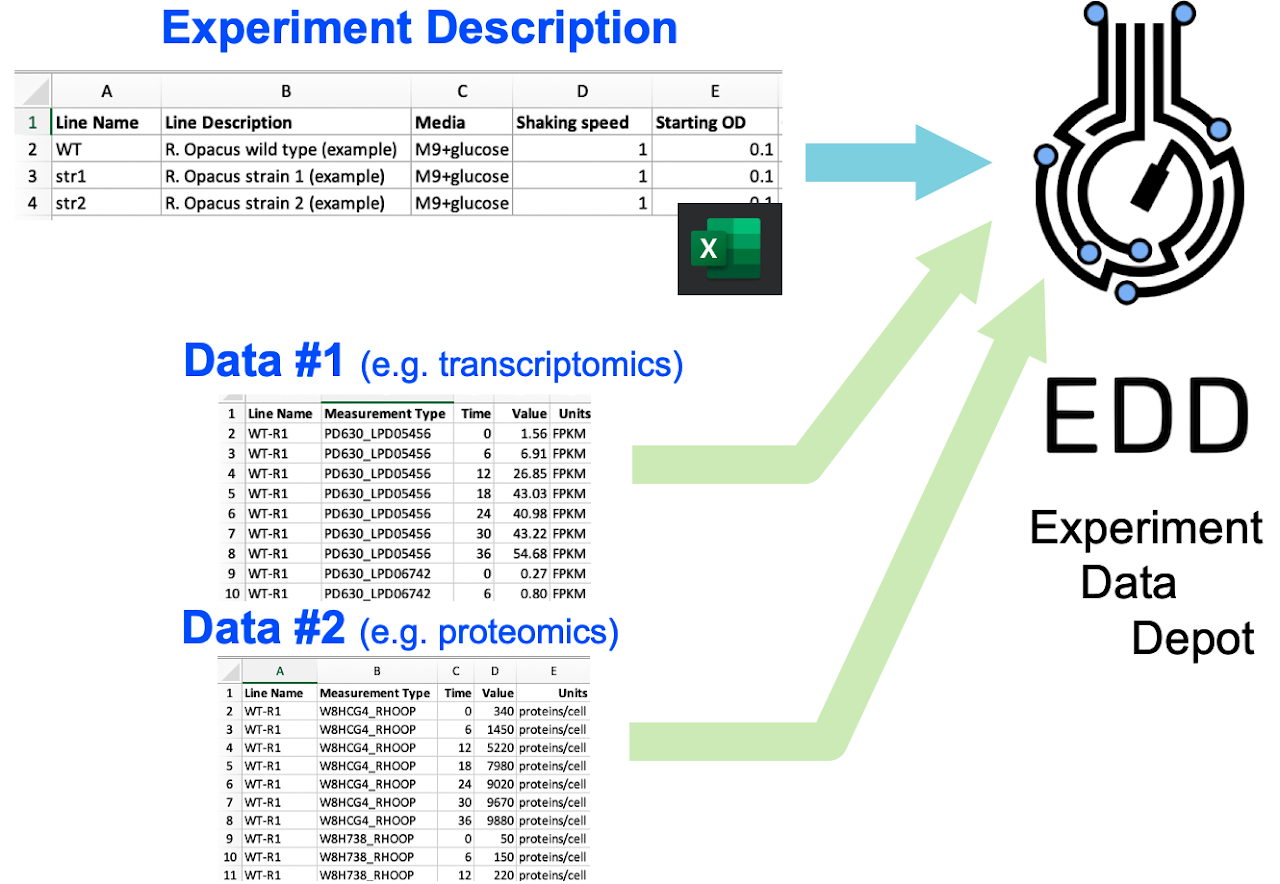
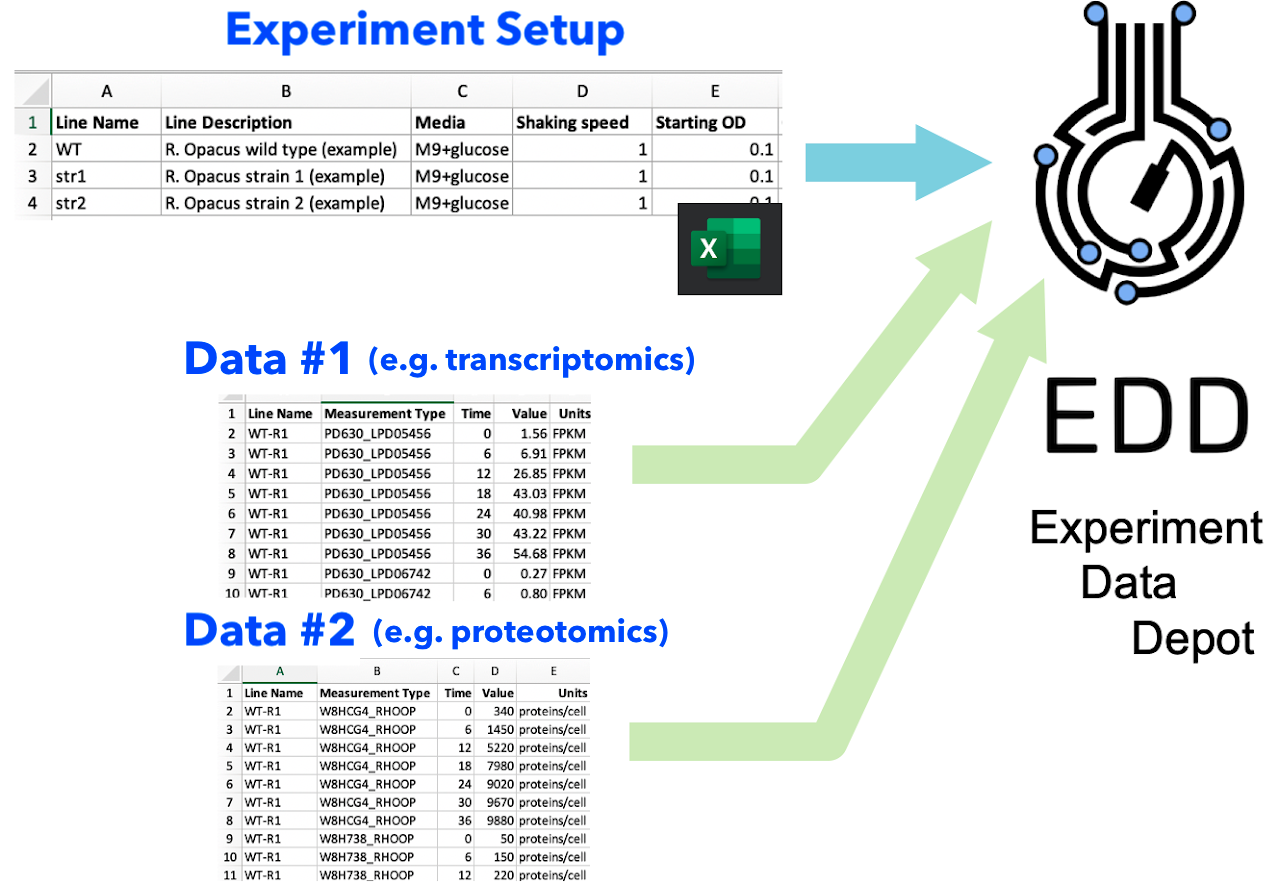
Replace FAQ entries for old Experiment Description
The new entry is for Experiment Setup, which recently replaced the Experiment
Description feature. The Experiment Setup files are more flexible versions of
the Experiment Description files, so example images of the files can remain.
Other images are updated for replacing "Experiment Description" text in the
image, or to use the newer, better-a11y, Bootstrap-5-based interface.

Update the dropzone area of the Study overview page to link to the FAQ entry
for the new Experiment Setup file.

Changed region(s): [[0.125, 0.0, 0.5312, 0.0611], [0.125, 0.6719, 0.5312, 0.7636], [0.125, 0.3665, 0.5625, 0.4276]]

diff --git a/server/templates/main/study-overview.html b/server/templates/main/study-overview.html
@@ -81,7 +81,13 @@
   {% csrf_token %}
   <div class="dz-message d-none" data-dz-message="">
     <p class="my-2">
-      {% translate "Drop file here to upload." %}
+      {% blocktranslate %}
+      To begin, drop an Experiment Setup file here, or click the button for
+      manual entry of Lines. <a
+        href="https://edd-docs.jbei.org/FAQ/#what-is-an-experiment-setup-file"
+        target="_new"
+      >What is an Experiment Setup file?</a>
+      {% endblocktranslate %}
     </p>
     <a
       class="btn btn-outline-secondary"

diff --git a/docs/FAQ.md b/docs/FAQ.md
@@ -4,9 +4,9 @@
 
 The Experiment Data Depot (EDD) **imports data in two steps**. (Fig. 1)
 
-1. **Experiment Description** input: this file describes your **experiment
-   design** so EDD knows how to store all your data, and how it is related to
-   your strains and samples (see below for more information).
+1. **Experiment Setup** input: this file describes your **experiment design**
+   so EDD knows how to store all your data, and how it is related to your
+   strains and samples.
 
 2. **Data input**: different types of data can be added in several successive
    steps. These data input steps are independent of each other, facilitating
@@ -19,69 +19,85 @@ and [data import][2].
   <img
     alt="Graphic showing spreadsheets with arrows pointing toward EDD logo"
     class="figure-img"
-    src="/img/faq_fig1.png"
+    src="img/faq_fig1.png"
     title="Fig 1"
   />
   <figcaption class="figure-caption">
     <strong>Fig. 1: Data input process.</strong>
-    Data is imported to EDD in two phases. In the first one, you import an
-    experiment description file, which describes the experiment to EDD so
-    it knows how to store your data. Afterwards, you can add as many data
-    types (e.g. transcriptomics, proteomics, …) as desired in each of the
-    data imports.
+    Data is imported to EDD in two phases. In the first, you import an
+    Experiment Setup file, describing the details of experiment conditions.
+    Afterwards, you can add as many data types--such as transcriptomics, or
+    proteomics--as desired in each of the data imports.
   </figcaption>
 </figure>
 
-## What is an experiment description?
+## What is an Experiment Setup file?
 
-An experiment description file is an **excel file that describes your
-experiment** (Fig. 2): which strains you are using (part ID from ICE), how they
-are being cultured (lines and metadata), which samples are being taken
-(assays) and how they are processed (protocol). Look at Fig. 3 to see how EDD
-organizes your experimental data (i.e. the ontology).
+An Experiment Setup file is a **table that describes your experiment**
+(Fig. 2): which strains you are using (part ID from ICE), how they are being
+cultured (lines and metadata), which samples are being taken (assays) and how
+they are processed (protocol). Look at Fig. 3 to see how EDD organizes your
+experimental data.
 
-The experiment description provides a single file standardized description of
-your experiment that is useful for, e.g., you to design your experiment, or
-the proteomics or metabolomics team to understand your experiment so they can
-plan how they will process your samples.
+The Experiment Setup file has a header row defining the layout of values in all
+the following rows. There is only one required column in the header, for "name"
+or "line name". The header can also have columns for:
+
+-   "description" or "line description", to fill in a Line's description field
+-   "part id" or "strain", to define identifiers or links to strains used
+-   "replicate" or "replicate count" to set the number of (biological) replicates
+    used for the Line definition
+-   any other column can be interpreted as _metadata_
+
+All other rows in the Experiment Setup file are used to map the columns into
+records to save into EDD. The upload process will attempt to match metadata
+columns to known metadata types in EDD, and add those metadata to the Line for
+that row in the file.
+
+If a metadata type cannot be matched to one in EDD automatically, a form will
+be shown giving you the option to select a known metadata type to use (e.g. if
+your column is "Temp.", EDD may not be able to automatically match to
+"Temperature", but you can select that from the search box), or choose an
+option to create a new metadata type in EDD if your account has permission to
+create new metadata types, or choose an option to ignore the column.
+
+If a piece of metadata is _Assay_ metadata, EDD will ask for the Protocol to
+use for that Assay. Every Assay is defined by a Line and a Protocol, so adding
+metadata to an Assay requires knowing the Protocol to use. The Experiment Setup
+process will then create an Assay and assign that metadata to it.
+
+Values in the "part id" or "strain" column will attempt to look up a matching
+entry in ICE. If a matching entry cannot be found, EDD will show a search box
+to map that value to a strain registry entry.
 
 <figure class="figure">
   <em>Input in Excel:</em>
   <img
-    alt="Screenshot of Excel with an Experiment Description file"
+    alt="Screenshot of Excel with an Experiment Setup file"
     class="figure-img"
-    src="/img/faq_fig2a.png"
+    src="img/faq_fig2a.png"
     title="Fig 2a"
   />
   <em>Import result in EDD:</em>
   <img
-    alt="Screenshot of EDD following addition of Experiment Description file"
+    alt="Screenshot of EDD following addition of Experiment Setup file"
     class="figure-img"
-    src="/img/faq_fig2b.png"
+    src="img/faq_fig2b.png"
     title="Fig 2b"
   />
   <figcaption class="figure-caption">
-    <strong>Fig. 2: Examples of experiment description.</strong>
-    The upper picture represents the example experiment description file in
-    Excel, with a line name that helps identify the culture, a line
-    description that gives more information on the line, the part ID in the
-    corresponding part repository (public ABF in this case), different types
-    of metadata (shaking speed, … growth temperature), the number of
-    replicates, and an optional field (in blue): assay information (i.e. a
-    protocol applied to a line at a given time point) for targeted proteomics.
-    The replicate count will create several lines for each replicate (3 for
-    wild type and 4 for the other strain, see below). The assay information is
-    optional: you may want to use this to tell the proteomics or metabolomics
-    services when you are sampling so they can add the data, or you can add
-    the data later yourself. The lower pictures shows how this information is
-    represented in EDD. Notice that the Part IDs have become links to the
-    corresponding registry.
+    <strong>Fig. 2: Examples of Experiment Setup.</strong>
+    The upper picture represents the example Experiment Setup file in Excel,
+    with a line name that helps identify the culture, a description that gives
+    more information on the line, the part ID in the corresponding part
+    repository (public ABF in this case), different types of metadata
+    (shaking speed, … growth temperature), and the number of replicates.
   </figcaption>
 </figure>
 
 ## What is a line?
 
-A **"Line" in EDD is** a distinct set of experimental conditions, (e.g. a
+A "Line" in EDD is a distinct set of experimental conditions, (e.g. a
 **single culture**). A Line generally corresponds to the contents of a
 shake flask or well plate, though it could also be, e.g., a tube containing an
 arabidopsis seed or an ionic liquid for a given pretreament. A line is not a
@@ -98,20 +114,19 @@ communication. You can find the [LBNL repository here][3].
   <img
     alt="Illustration of the different levels of EDD ontology"
     class="figure-img"
-    src="/img/faq_fig3.png"
+    src="img/faq_fig3.png"
     title="Fig 3"
   />
   <figcaption class="figure-caption">
     <strong>Fig. 3: EDD data organization (ontology).</strong>
-     In this example, we have three different strains (A,B, and C). Strain A is
-     cultured in two different flasks, giving rise to two lines (A1 and A2).
-     Strain B is cultured in a single flask, giving rise to a single line B1.
-     Strain C is cultured in three flasks, giving rise to three lines: C1, C2
-     and C3. Line A2 is assayed through HP-LC (protocol) at times t = 10 hr
-     (assay A2-HPLC-1) and t=8 hr (assay A2-HPLC-2). Assay A2-HPLC-1 produces
-     two measurements: 3 mg/L of Acetate and 2 mg/L of Lactate. Assay
-     A2-HPLC-2 produces two measurements: 2 mg/L of Acetate and 1.5 mg/L of
-     Lactate.
+    In this example, we have three different strains (A, B, and C). Strain A is
+    cultured in two different flasks, giving rise to two lines (A1 and A2).
+    Strain B is cultured in a single flask, giving rise to a single line B1.
+    Strain C is cultured in three flasks, giving rise to three lines: C1, C2
+    and C3. Line A2 is assayed through HP-LC (protocol) at times t = 10hr
+    (assay A2-HPLC-1) and t = 8hr (assay A2-HPLC-2). Assay A2-HPLC-1 produces
+    two measurements: 3 mg/L of Acetate and 2 mg/L of Lactate. Assay A2-HPLC-2
+    produces two measurements: 2 mg/L of Acetate and 1.5 mg/L of Lactate.
   </figcaption>
 </figure>
 
@@ -122,26 +137,6 @@ whichever other condition is being changed in the experiment. For example,
 WT-LB-70C would indicate is a wild type, grown on LB at 70º C (imagine you are
 trying different growth temperatures). Cineole-EZ-50C indicates a cineole
 producing strain, grown on EZ at 50º C … etc.
-
-## What are the column options for experiment description?
-
-The primary line characteristics that you should have in every experiment
-description and every EDD service (instance) are:
-
--   **Line Name**: a short name that uniquely identifies the line (**REQUIRED**).
--   **Line Description**: A short human-readable description for the
-    line (encouraged).
--   **Part ID**: the unique ICE part number identifiers for the strains
-    involved (encouraged).
--   **Replicate Count**: the number of experimental replicates for this set of
-    experimental conditions (encouraged).
-
-Other metadata types (e.g. media, temperatures, culture volume, flask volume,
-shaking speed … etc) are also available, but depend on which EDD site you are
-using. Ask your EDD administrator for more information. Columns can be in
-any order.
-
-_TBD_: include link to full metadata listing in any EDD.
 
 ## Why should I use the Experiment Data Depot?
 
